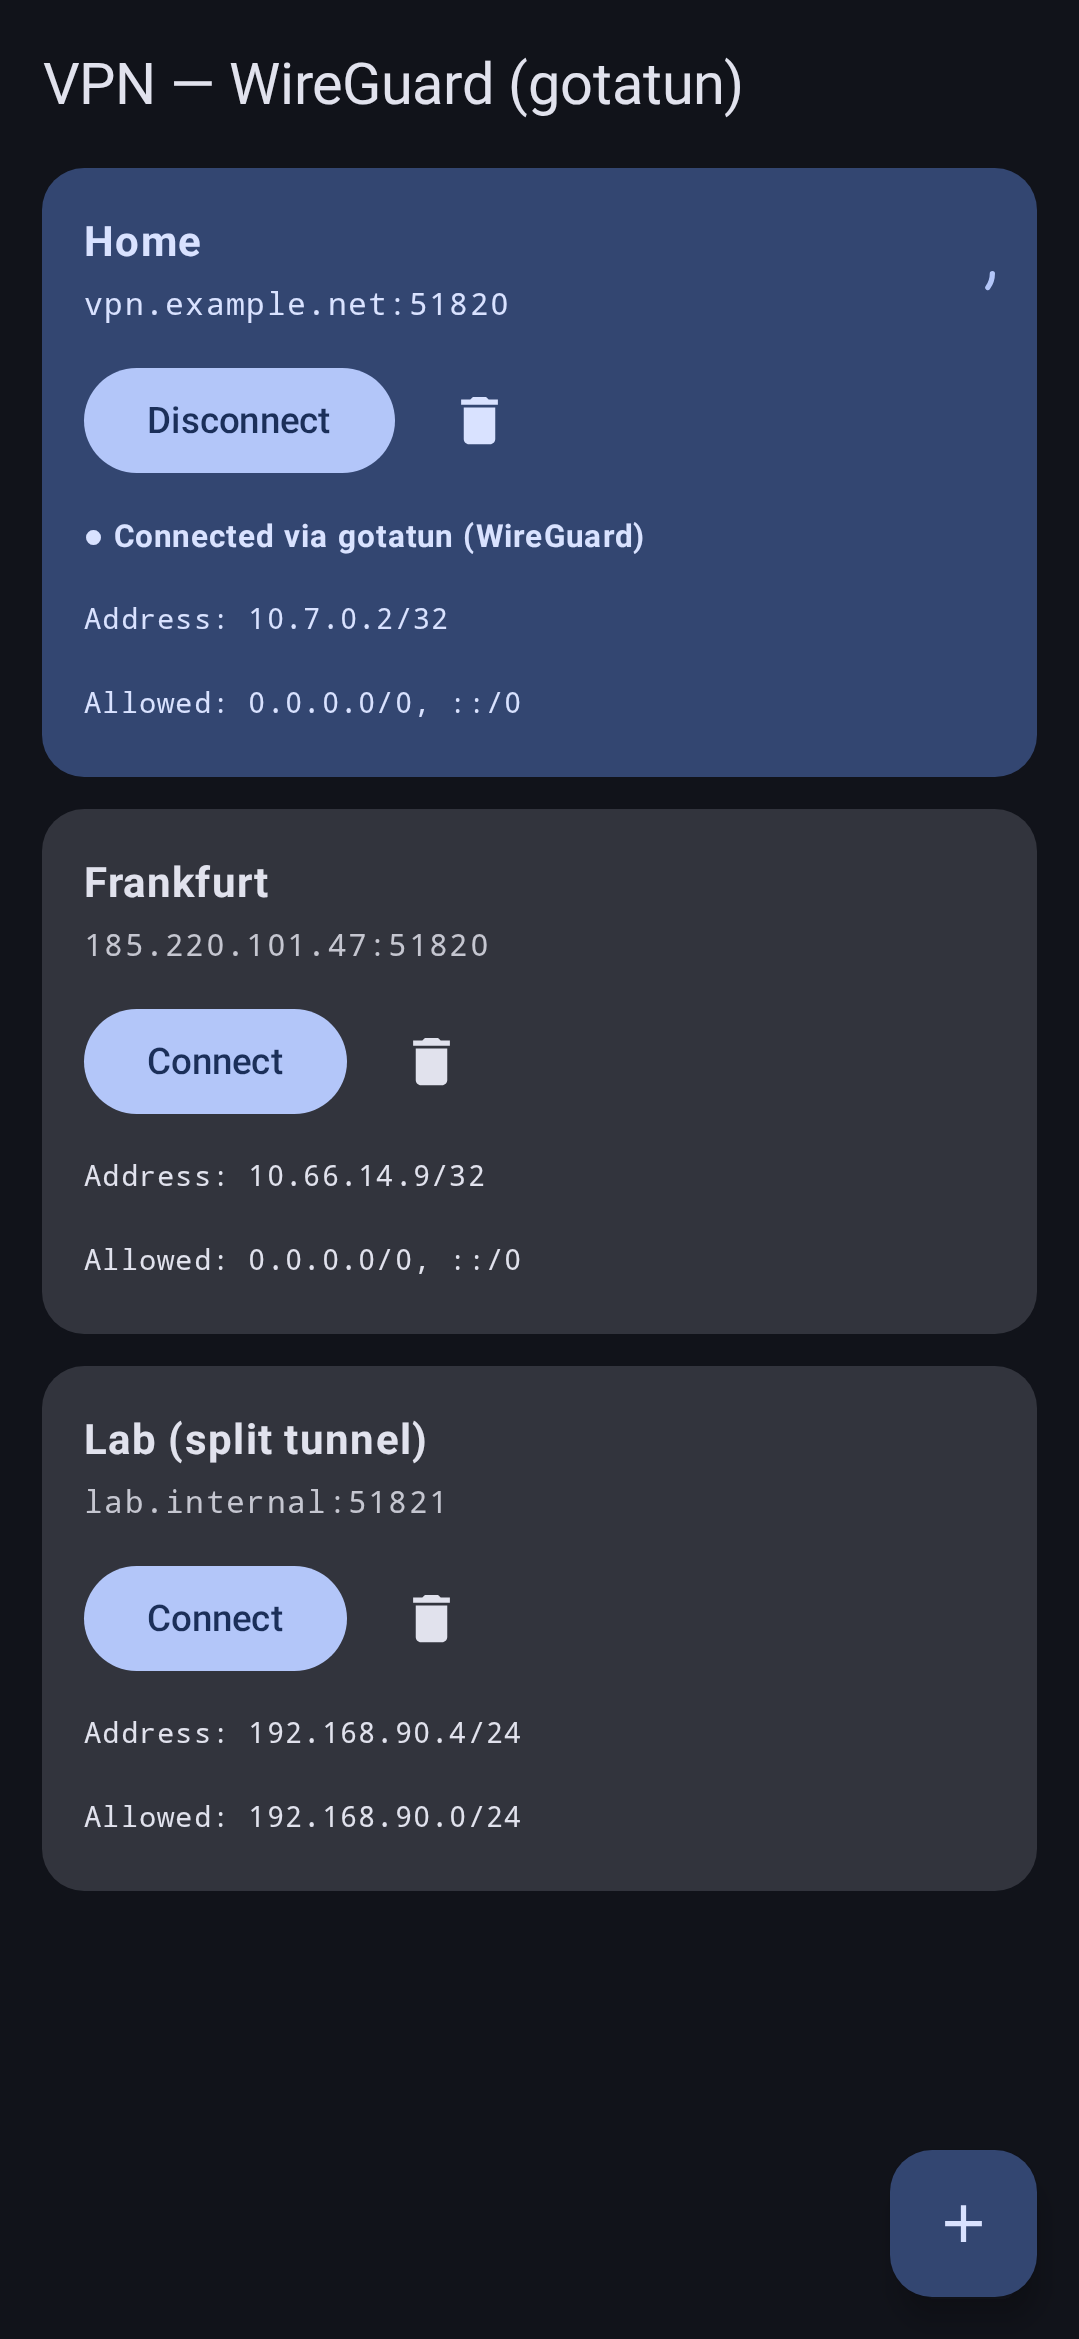
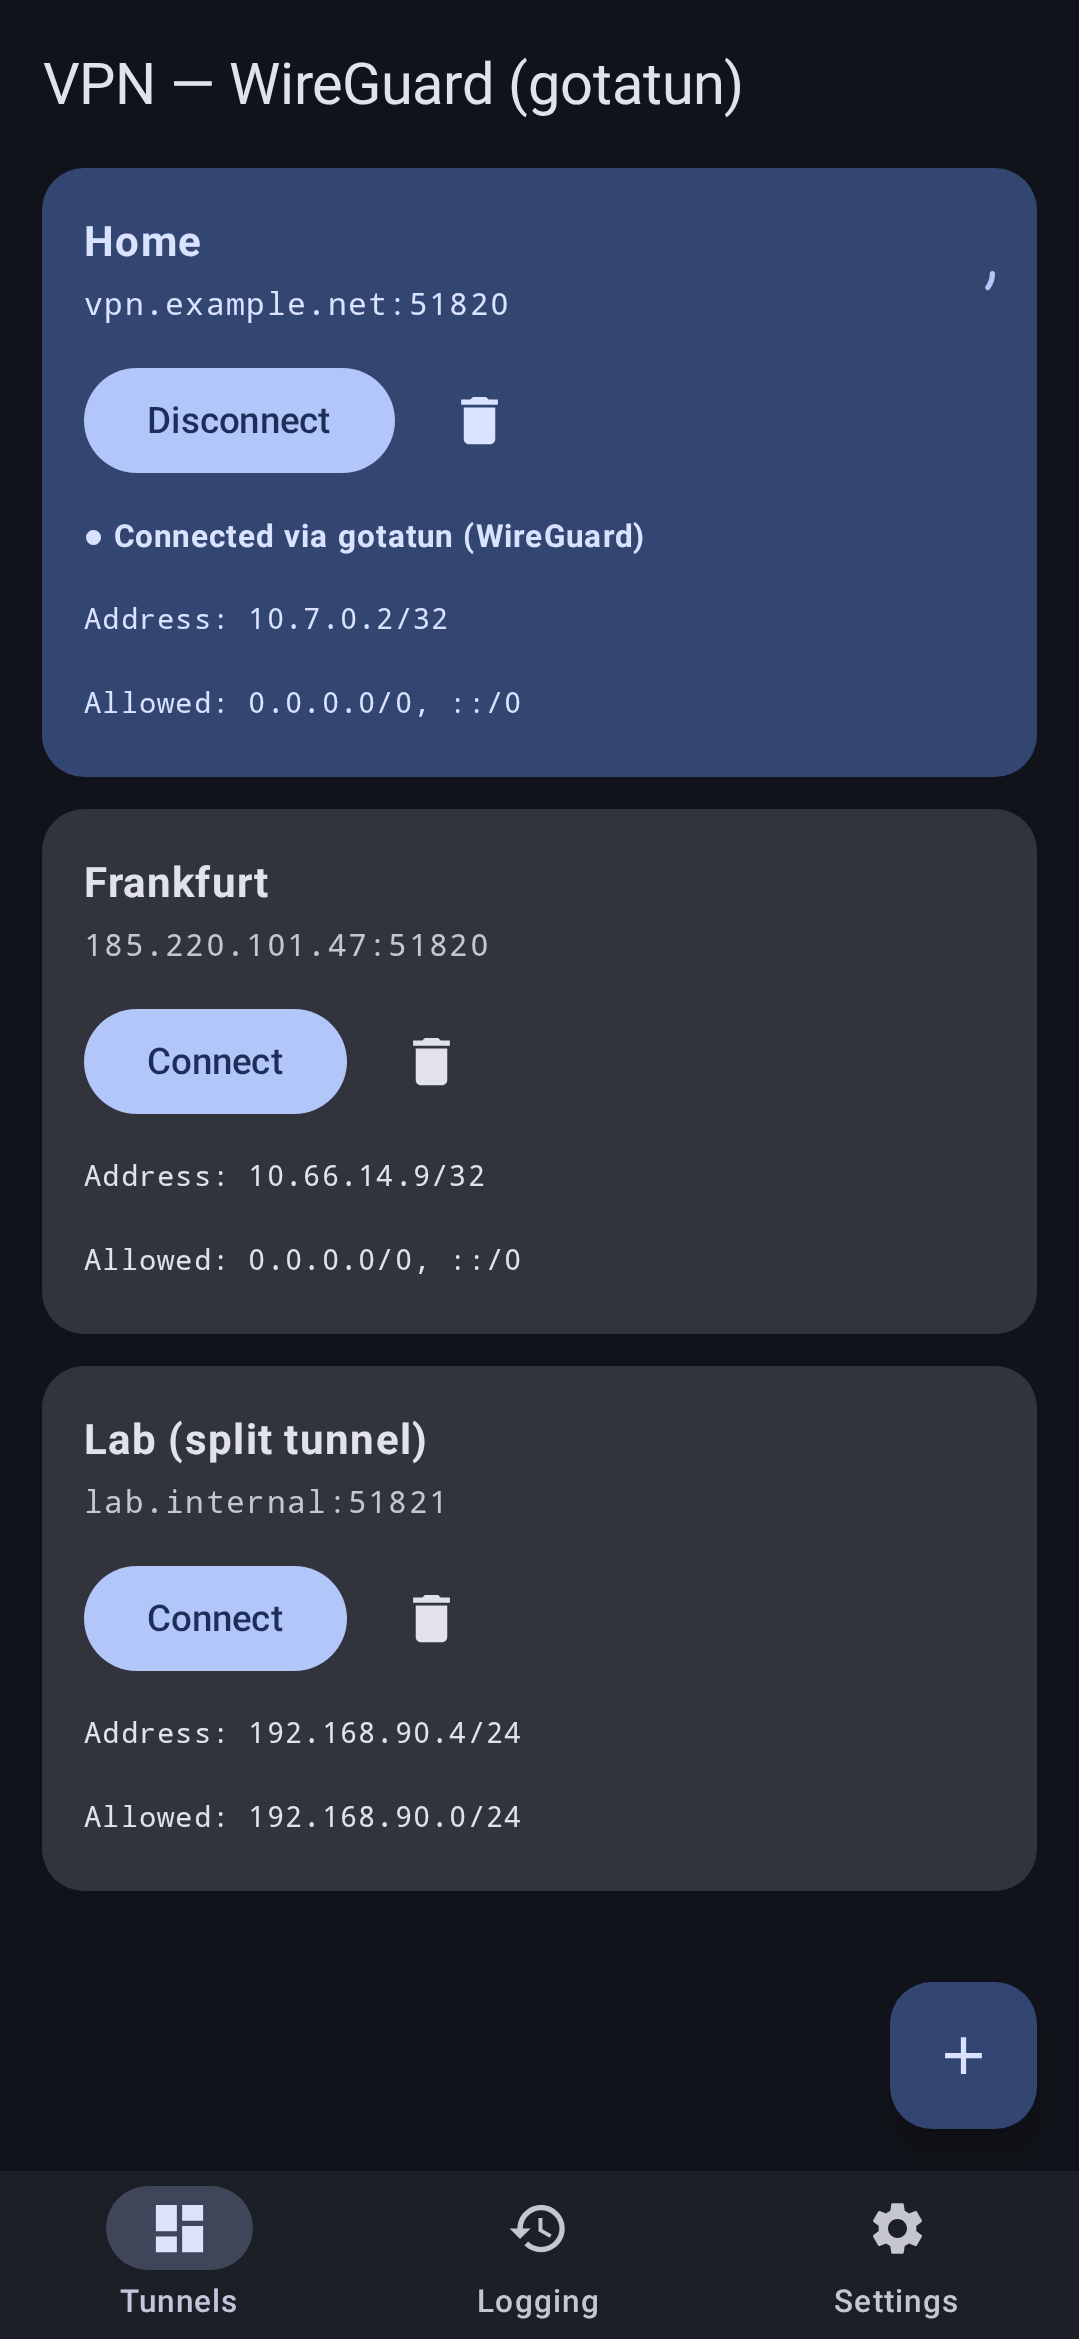
vpn: preview tab chrome in screenshots

Changed region(s): [[0.7646, 0.8427, 0.9787, 0.9987], [0.0918, 0.9363, 0.2447, 0.9987], [0.4588, 0.9363, 0.5505, 0.9987]]

diff --git a/vpn/src/screenshotTest/kotlin/com/vayunmathur/vpn/ui/MetadataPreviews.kt b/vpn/src/screenshotTest/kotlin/com/vayunmathur/vpn/ui/MetadataPreviews.kt
@@ -4,11 +4,20 @@ import androidx.compose.foundation.layout.Box
 import androidx.compose.foundation.layout.Row
 import androidx.compose.foundation.layout.fillMaxHeight
 import androidx.compose.foundation.layout.fillMaxSize
+import androidx.compose.foundation.pager.rememberPagerState
 import androidx.compose.runtime.Composable
 import androidx.compose.ui.Modifier
 import androidx.compose.ui.tooling.preview.Preview
 import com.android.tools.screenshot.PreviewTest
 import com.vayunmathur.library.ui.DynamicTheme
+import com.vayunmathur.library.ui.IconDashboard
+import com.vayunmathur.library.ui.IconHistory
+import com.vayunmathur.library.ui.IconSettings
+import com.vayunmathur.library.ui.PagerTab
+import com.vayunmathur.library.ui.TabStyle
+import com.vayunmathur.library.ui.TabbedPagerScaffold
+import com.vayunmathur.library.util.NavBackStack
+import com.vayunmathur.vpn.Route
 import com.vayunmathur.vpn.data.AppUsageSummary
 import com.vayunmathur.vpn.data.DomainBytesSummary
 import com.vayunmathur.vpn.data.DomainCountSummary
@@ -96,40 +105,21 @@ class MetadataPreviews {
     @Preview(name = "1-tunnels", device = PHONE, group = "phone", showSystemUi = true)
     @Composable
     fun Preview1Tunnels() {
-        DynamicTheme(darkTheme = true) {
-            ConfigListContent(
-                configs = tunnels,
-                connectingId = 1L,
-                activeId = 1L,
-            )
-        }
+        ChromePreview(selectedTab = 0)
     }
 
     @PreviewTest
     @Preview(name = "2-top-apps", device = PHONE, group = "phone", showSystemUi = true)
     @Composable
     fun Preview2TopApps() {
-        DynamicTheme(darkTheme = true) {
-            LoggingContent(
-                topApps = topApps,
-                domainsByCount = domainsByCount,
-                domainsByBytes = domainsByBytes,
-            )
-        }
+        ChromePreview(selectedTab = 1)
     }
 
     @PreviewTest
     @Preview(name = "3-top-domains", device = PHONE, group = "phone", showSystemUi = true)
     @Composable
     fun Preview3TopDomains() {
-        DynamicTheme(darkTheme = true) {
-            LoggingContent(
-                topApps = topApps,
-                domainsByCount = domainsByCount,
-                domainsByBytes = domainsByBytes,
-                initialTab = 2,
-            )
-        }
+        ChromePreview(selectedTab = 1, loggingTab = 2)
     }
 
     @PreviewTest
@@ -157,6 +147,43 @@ class MetadataPreviews {
                     )
                 }
             }
+        }
+    }
+
+    /**
+     * The app's real tab chrome around preview screen content: the same
+     * [TabbedPagerScaffold] with the same Tunnels/Logging/Settings tabs `VpnTabs`
+     * declares. The Settings tab only needs a back stack (its actions fire intents
+     * on click), so it renders for real; only the selected tab is literal.
+     */
+    @Composable
+    private fun ChromePreview(selectedTab: Int, loggingTab: Int = 0) {
+        DynamicTheme(darkTheme = true) {
+            val tabs = listOf(
+                PagerTab("Tunnels", { IconDashboard() }) {
+                    ConfigListContent(
+                        configs = tunnels,
+                        connectingId = 1L,
+                        activeId = 1L,
+                    )
+                },
+                PagerTab("Logging", { IconHistory() }) {
+                    LoggingContent(
+                        topApps = topApps,
+                        domainsByCount = domainsByCount,
+                        domainsByBytes = domainsByBytes,
+                        initialTab = loggingTab,
+                    )
+                },
+                PagerTab("Settings", { IconSettings() }) {
+                    SettingsPage(backStack = NavBackStack(arrayOf(Route.Main())))
+                },
+            )
+            TabbedPagerScaffold(
+                tabs = tabs,
+                pagerState = rememberPagerState(initialPage = selectedTab, pageCount = { tabs.size }),
+                tabStyle = TabStyle.BottomNav,
+            )
         }
     }
 }
